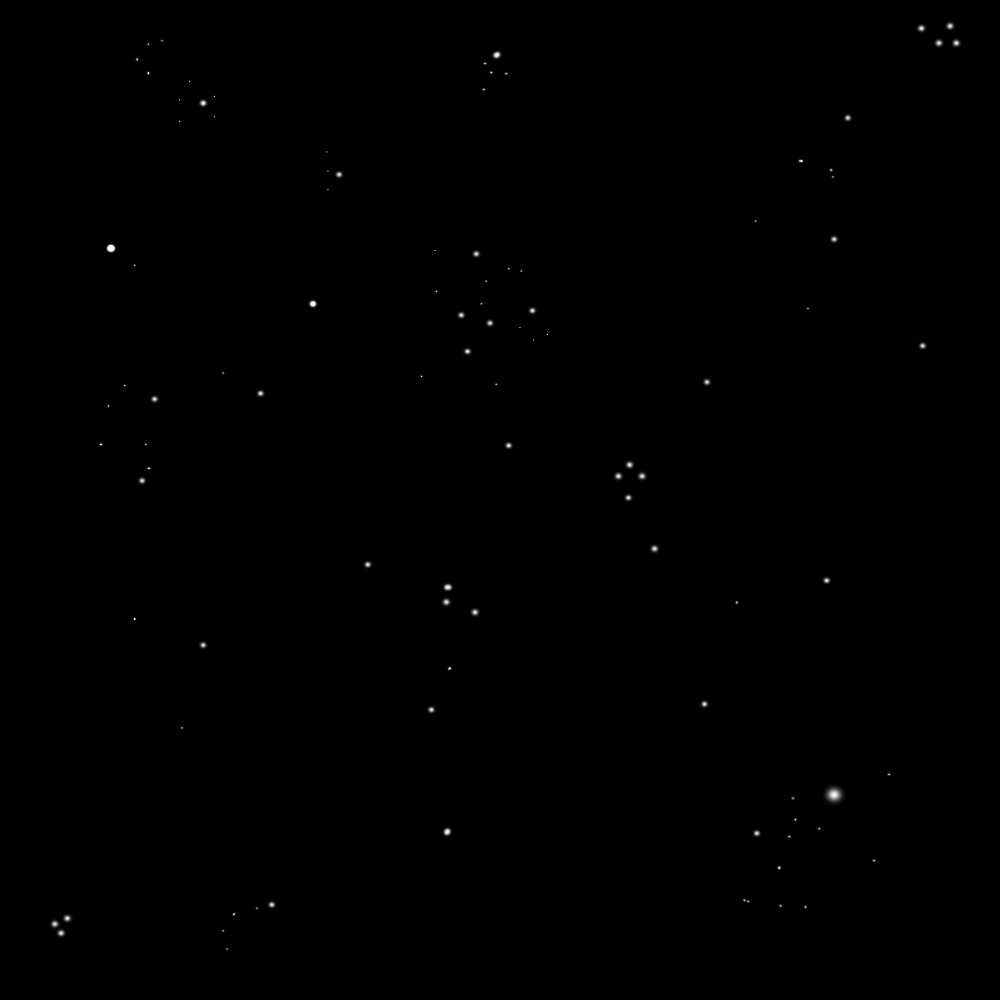
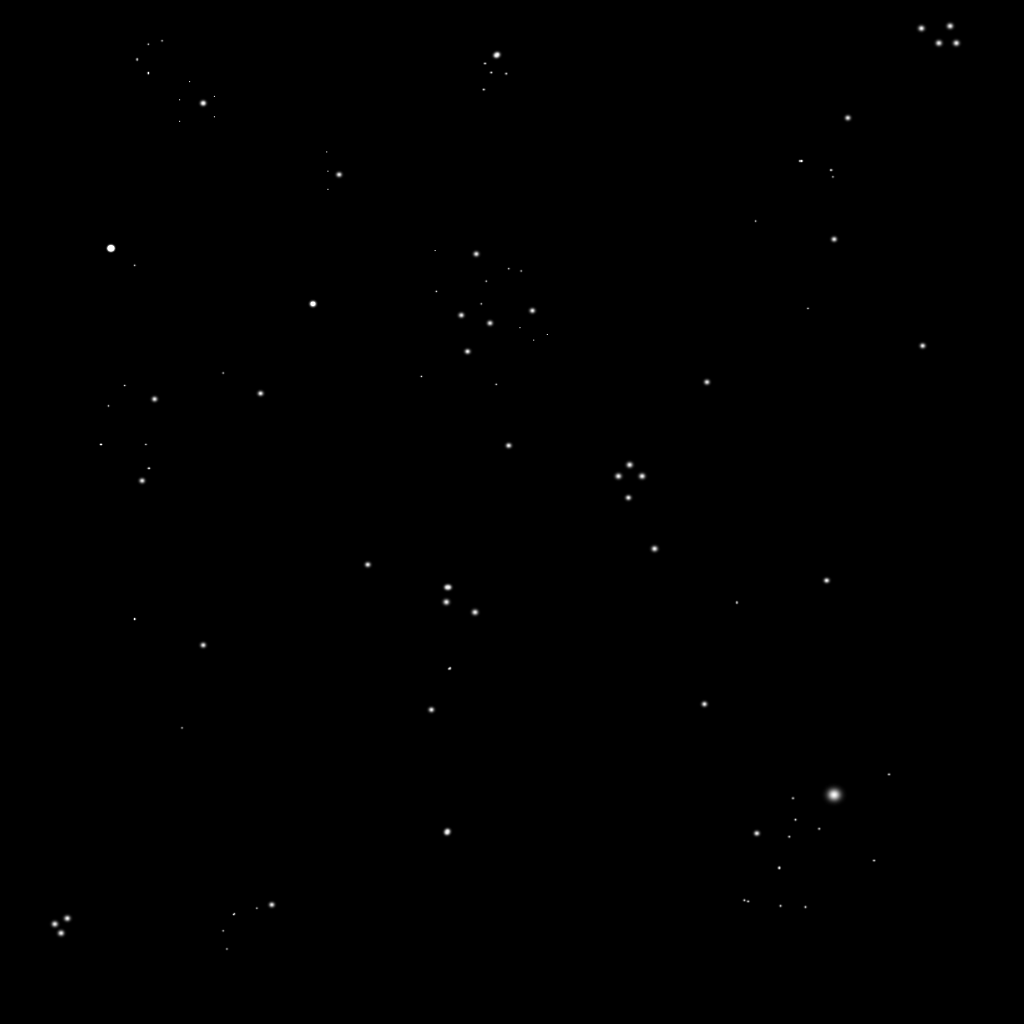
Cherry-pick: Legacy graphics support
Tweaks to make the game run on older systems
* Switch project API from HiDef to Reach

* Make background 1024x1024 (was 1000x1000)

* Draw menu screen differently from ingame screen, since there were a lot
  of non-power of two textures there and I didn't have time for anything
  more complicated.

Conflicts:

	spacePirates/SpacePirates/Game1.cs
	spacePirates/SpacePirates/Level.cs
	spacePirates/SpacePiratesContent/SpacePiratesContent.contentproj

diff --git a/spacePirates/SpacePirates/Level.cs b/spacePirates/SpacePirates/Level.cs
@@ -13,7 +13,7 @@ namespace SpacePirates
     {
         private Texture2D background;
         private HashSet<Rectangle> foreground;
-        private Vector2 size;
+        private Rectangle bounds;
         private Vector2 position;
         private Rectangle croppedBackground; //the visible part
 
@@ -21,14 +21,36 @@ namespace SpacePirates
         {
             Level self = this;
 
-            self.background = Content.Load<Texture2D>("background");
-            size = new Vector2(background.Width, background.Height);
+            self.background = Content.Load<Texture2D>("Graphics/background");
+            bounds = new Rectangle(0, 0, 30000, 30000);
             position = new Vector2(0, 0);
         }
 
-        public Vector2 GetLevelSize()
+        /// <summary>
+        /// Get a rectangle representing the entire level
+        /// </summary>
+        /// <returns></returns>
+        public Rectangle GetLevelBounds()
         {
-            return size;
+            return bounds;
+        }
+
+        /// <summary>
+        /// Check if a unit is outside of the level
+        /// </summary>
+        /// <param name="unit">The unit to check</param>
+        /// <returns>true if the unit is outside, otherwise false</returns>
+        public bool IsOutsideLevel(Unit unit)
+        {
+            Vector2 position = unit.GetPosition();
+            //Don't bother getting an accurate size for the unit rectangle,
+            //the level check doesn't require that much accuracy
+            Rectangle rect = new Rectangle((int)position.X, (int)position.Y, 10, 10);
+            //The level rectangle intersects with the unit's rectangle
+            if (bounds.Intersects(rect)) {
+                return false;
+            }
+            return true;
         }
 
         private void CalculateLevelCrop(SpriteBatch sb)

diff --git a/spacePirates/SpacePirates/Game1.cs b/spacePirates/SpacePirates/Game1.cs
@@ -127,10 +127,17 @@ namespace SpacePirates
         {
             GraphicsDevice.Clear(Color.Black);
 
-            //spriteBatch.Begin(SpriteSortMode.BackToFront, BlendState.AlphaBlend);
-            //add samplerstate to wrap background
-            spriteBatch.Begin(SpriteSortMode.BackToFront, BlendState.AlphaBlend, SamplerState.LinearWrap, DepthStencilState.None, RasterizerState.CullNone);
-
+            //Use clamp on menu screen to support the limited Reach api (it contains
+            //non-power of two textures) for older systems
+            if (currentState is GameObject)
+            {
+                //add samplerstate to wrap background
+                spriteBatch.Begin(SpriteSortMode.BackToFront, BlendState.AlphaBlend, SamplerState.LinearWrap, DepthStencilState.None, RasterizerState.CullNone);
+            }
+            else if (currentState is MenuObject)
+            {
+                spriteBatch.Begin(SpriteSortMode.BackToFront, BlendState.AlphaBlend, SamplerState.LinearClamp, DepthStencilState.None, RasterizerState.CullNone);
+            }
 
             currentState.executeDraw(spriteBatch);
 
